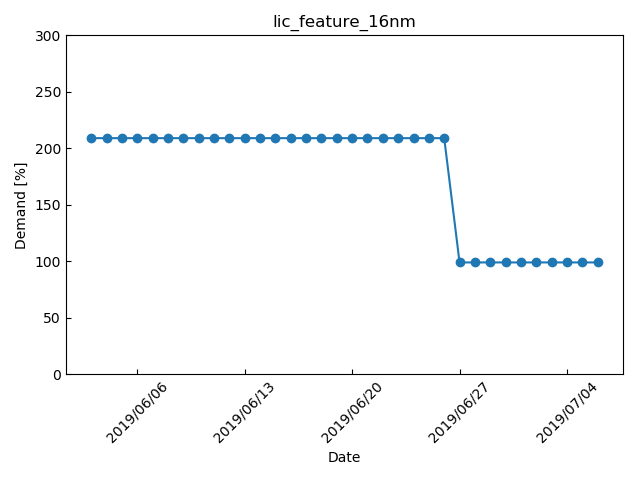
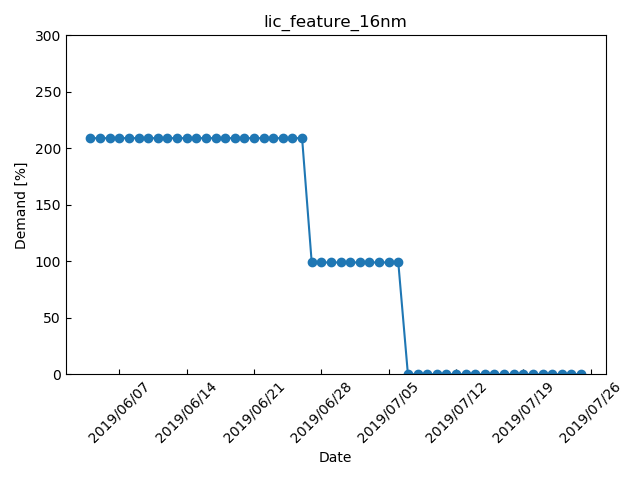
Update analysis page

diff --git a/demand_manager/templates/demand_manager/demand_analysis.html b/demand_manager/templates/demand_manager/demand_analysis.html
@@ -11,21 +11,18 @@
     <div>
         <h2>Demand Analysis</h2>
         <div class="container">
-            <h3>Required License Features</h3>
+            <h3>Required License Features: {{ period_start|date:"Y/m/d" }} - {{ period_end|date:"Y/m/d" }}</h3>
             <div class="float-right">
                 <form method="get">
                     <div class="form-row">
                         {{ form|crispy }}
                         <div class="form-group col-md-4">
                             <button type="submit" class="btn btn-info"> Set period </button>
-                            <a class="btn btn-secondary filtered" href="/demand_manager/analysis_test/?page=1"> Reset </a>
+                            <a class="btn btn-secondary filtered" href="/demand_manager/analysis/?page=1"> Reset </a>
                         </div>
                     </div>
                 </form>
             </div>
-            {{ period_start }}
-            {{ period_end }}
-
             <table class="table table-bordered table-striped table-light">
                 <thead>
                     <tr class="table-primary">
@@ -64,7 +61,7 @@
             </table>
         </div>
         <div>
-            <h3>Demand vs Date</h3>
+            <h3>Demand vs Date: {{ period_start|date:"Y/m/d" }} - {{ period_end|date:"Y/m/d" }}</h3>
             {% load static %}
             {% for index, row in df_png_path.iterrows %}
                 <table>

diff --git a/demand_manager/templates/demand_manager/base.html b/demand_manager/templates/demand_manager/base.html
@@ -45,11 +45,11 @@
                         <i class="fas fa-book"></i> Documents
                     </a>
                     <div class="dropdown-menu" aria-labelledby="navbarDropdownDoc">
-                        <a class="dropdown-item" href="#">Users Manual</a>
-                        <a class="dropdown-item" href="#">Update Plan</a>
+                        <a class="dropdown-item" href="#">Users Manual(In preparation)</a>
+                        <a class="dropdown-item" href="#">Update Plan(In preparation)</a>
                         {% if user.is_staff %}
                             <div class="dropdown-divider"></div>
-                            <a class="dropdown-item" href="#">Administrator Manual</a>
+                            <a class="dropdown-item" href="#">Administrator Manual(In preparation)</a>
                         {% endif %}
                         <div class="dropdown-divider"></div>
                         <a class="dropdown-item disabled" href="#">Something else here</a>

diff --git a/demand_manager/migrations/0003_auto_20190604_2322.py b/demand_manager/migrations/0003_auto_20190604_2322.py
@@ -1,0 +1,53 @@
+# Generated by Django 2.2 on 2019-06-04 14:22
+
+from django.db import migrations, models
+
+
+class Migration(migrations.Migration):
+
+    dependencies = [
+        ('demand_manager', '0002_release'),
+    ]
+
+    operations = [
+        migrations.AlterField(
+            model_name='demand',
+            name='frequency',
+            field=models.IntegerField(help_text='<ul><li>Required</li></ul>', verbose_name='Frequency of Use [%]'),
+        ),
+        migrations.AlterField(
+            model_name='demand',
+            name='product',
+            field=models.CharField(help_text='<ul><li>Required</li></ul>', max_length=20, verbose_name='Product Name(Design Phase)'),
+        ),
+        migrations.AlterField(
+            model_name='verificationcontent',
+            name='lic_feature_base_a',
+            field=models.IntegerField(default=0, verbose_name='License Feature Base_A'),
+        ),
+        migrations.AlterField(
+            model_name='verificationcontent',
+            name='lic_feature_base_b',
+            field=models.IntegerField(default=0, verbose_name='License Feature Base_B'),
+        ),
+        migrations.AlterField(
+            model_name='verificationcontent',
+            name='lic_feature_base_c',
+            field=models.IntegerField(default=0, verbose_name='License Feature Base_C'),
+        ),
+        migrations.AlterField(
+            model_name='verificationcontent',
+            name='lic_feature_opt_1',
+            field=models.IntegerField(default=0, verbose_name='License Feature Option_1'),
+        ),
+        migrations.AlterField(
+            model_name='verificationcontent',
+            name='lic_feature_opt_2',
+            field=models.IntegerField(default=0, verbose_name='License Feature Option_2'),
+        ),
+        migrations.AlterField(
+            model_name='verificationcontent',
+            name='lic_feature_opt_3',
+            field=models.IntegerField(default=0, verbose_name='License Feature Option_3'),
+        ),
+    ]

diff --git a/demand_manager/views.py b/demand_manager/views.py
@@ -6,6 +6,8 @@ from django_filters.views import FilterView
 from django.shortcuts import resolve_url
 from django.utils import timezone
 
+from datetime import datetime
+
 from .models import Demand
 from .forms import LoginForm, DemandCreateForm, DemandUpdateForm, DemandAnalysisForm
 from .filters import DemandFilter, DemandAnalysisFilter
@@ -127,7 +129,15 @@ class DemandAnalysisView(LoginRequiredMixin, FormView):
         context['ser_num_release'] = demand_feature.df_release_feature.max().astype('int64')
         context['ser_required_lic'] = demand_feature.ser_required_lic
         context['df_png_path'] = demand_feature.df_png_path
-        context['period_start'] = period_start
-        context['period_end'] = period_end
+        if type(demand_feature.start_date) is str:
+            context['period_start'] = datetime.strptime(demand_feature.start_date, '%Y-%m-%d')
+        else:
+            context['period_start'] = demand_feature.start_date
+        if type(demand_feature.end_date) is str:
+            context['period_end'] = datetime.strptime(demand_feature.end_date, '%Y-%m-%d')
+        else:
+            context['period_end'] = demand_feature.end_date
+        print("Date: {} - {}".format(demand_feature.start_date, demand_feature.end_date))
+        print(type(demand_feature.start_date))
         return context
 

diff --git a/demand_manager/migrations/0004_auto_20190604_2335.py b/demand_manager/migrations/0004_auto_20190604_2335.py
@@ -1,0 +1,38 @@
+# Generated by Django 2.2 on 2019-06-04 14:35
+
+from django.db import migrations, models
+
+
+class Migration(migrations.Migration):
+
+    dependencies = [
+        ('demand_manager', '0003_auto_20190604_2322'),
+    ]
+
+    operations = [
+        migrations.AlterField(
+            model_name='verificationcontent',
+            name='lic_feature_base_b',
+            field=models.BooleanField(verbose_name='License Feature Base_B'),
+        ),
+        migrations.AlterField(
+            model_name='verificationcontent',
+            name='lic_feature_base_c',
+            field=models.BooleanField(verbose_name='License Feature Base_C'),
+        ),
+        migrations.AlterField(
+            model_name='verificationcontent',
+            name='lic_feature_opt_1',
+            field=models.BooleanField(verbose_name='License Feature Option_1'),
+        ),
+        migrations.AlterField(
+            model_name='verificationcontent',
+            name='lic_feature_opt_2',
+            field=models.BooleanField(verbose_name='License Feature Option_2'),
+        ),
+        migrations.AlterField(
+            model_name='verificationcontent',
+            name='lic_feature_opt_3',
+            field=models.BooleanField(verbose_name='License Feature Option_3'),
+        ),
+    ]

diff --git a/demand_manager/utils/demand_summary.py b/demand_manager/utils/demand_summary.py
@@ -91,8 +91,12 @@ class DemandFeature:
             list_date = pd.date_range(start=start_date, end=end_date, freq='D')
             dict_data = {}
             for base_feature in self.list_base_feature:
-                if self.df_content.at[content, base_feature]:
+                print(base_feature, self.df_content.at[content, base_feature])
+                if self.df_content.at[content, base_feature] is True:
                     dict_data[base_feature] = np.array([frequency] * len(list_date), dtype='int32')
+                elif self.df_content.at[content, base_feature] > 0:
+                    num = self.df_content.at[content, base_feature]
+                    dict_data[base_feature] = np.array([frequency * num] * len(list_date), dtype='int32')
                 else:
                     dict_data[base_feature] = np.array([0] * len(list_date), dtype='int32')
             for tech_feature in self.list_tech_feature:

diff --git a/accounts/migrations/0003_auto_20190604_2322.py b/accounts/migrations/0003_auto_20190604_2322.py
@@ -1,0 +1,19 @@
+# Generated by Django 2.2 on 2019-06-04 14:22
+
+import django.contrib.auth.validators
+from django.db import migrations, models
+
+
+class Migration(migrations.Migration):
+
+    dependencies = [
+        ('accounts', '0002_auto_20190602_1630'),
+    ]
+
+    operations = [
+        migrations.AlterField(
+            model_name='user',
+            name='username',
+            field=models.CharField(blank=True, help_text='150 characters or fewer. Letters, digits and @/./+/-/_ only.', max_length=150, null=True, validators=[django.contrib.auth.validators.UnicodeUsernameValidator()], verbose_name='Username'),
+        ),
+    ]

diff --git a/demand_manager/models.py b/demand_manager/models.py
@@ -50,8 +50,9 @@ class VerificationContent(models.Model):
         blank=False,
         null=False,
     )
-    lic_feature_base_a = models.BooleanField(
+    lic_feature_base_a = models.IntegerField(
         verbose_name='License Feature Base_A',
+        default=0,
     )
     lic_feature_base_b = models.BooleanField(
         verbose_name='License Feature Base_B',
